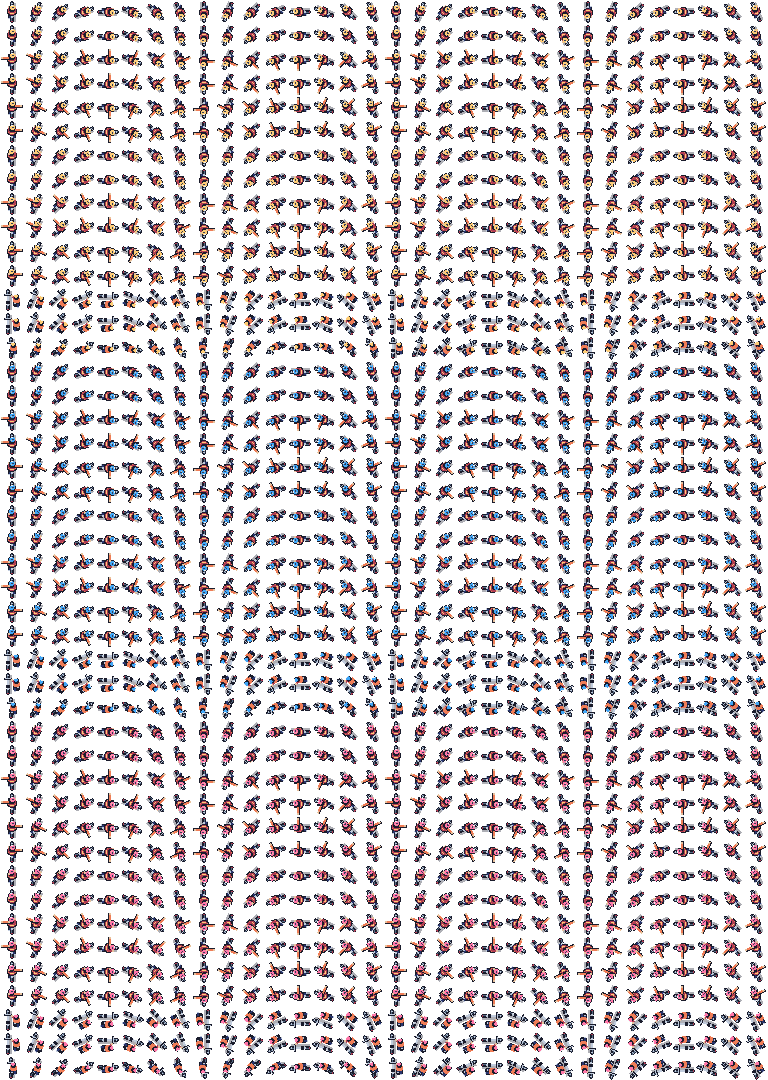
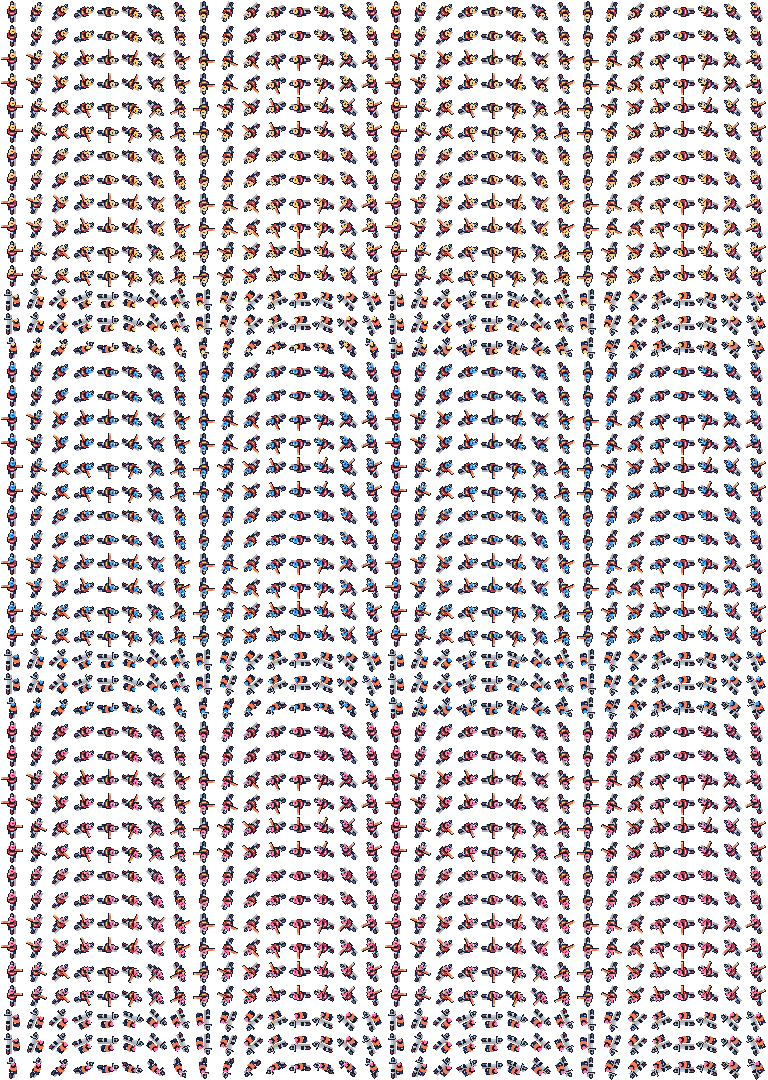
fix(render): zachowaj dzienne sprite’y rowerzystów

diff --git a/tools/sprite-art.ts b/tools/sprite-art.ts
@@ -167,7 +167,7 @@ function bicycle(tile: Tile, x: number, frameColor: number) {
   tile.rect(x - 3, 6, 6, 1, steel);
   tile.rect(x - 2, 13, 4, 3, ink);
   tile.rect(x - 1, 3, 2, 1, steel);
-  tile.rect(x - 1, 21, 2, 1, burgundy);
+  tile.rect(x - 1, 20, 2, 1, burgundy);
 }
 
 const steps = [2, 1, -2, -1] as const;
